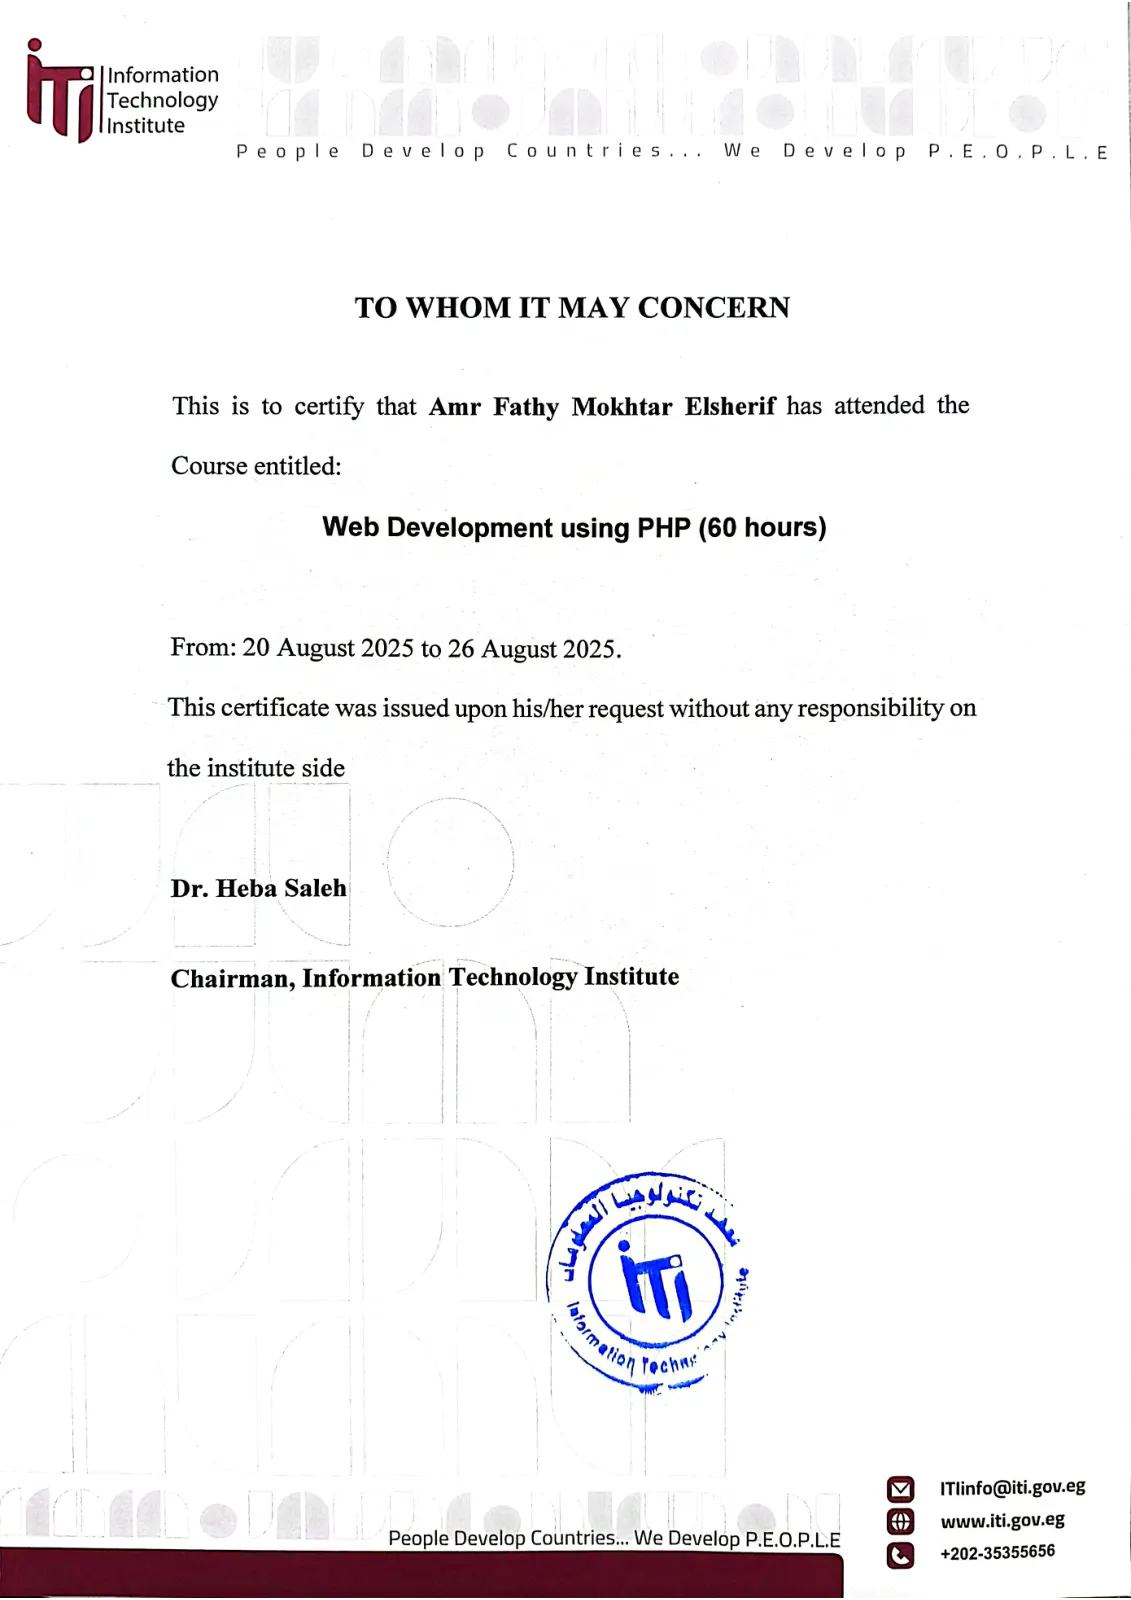
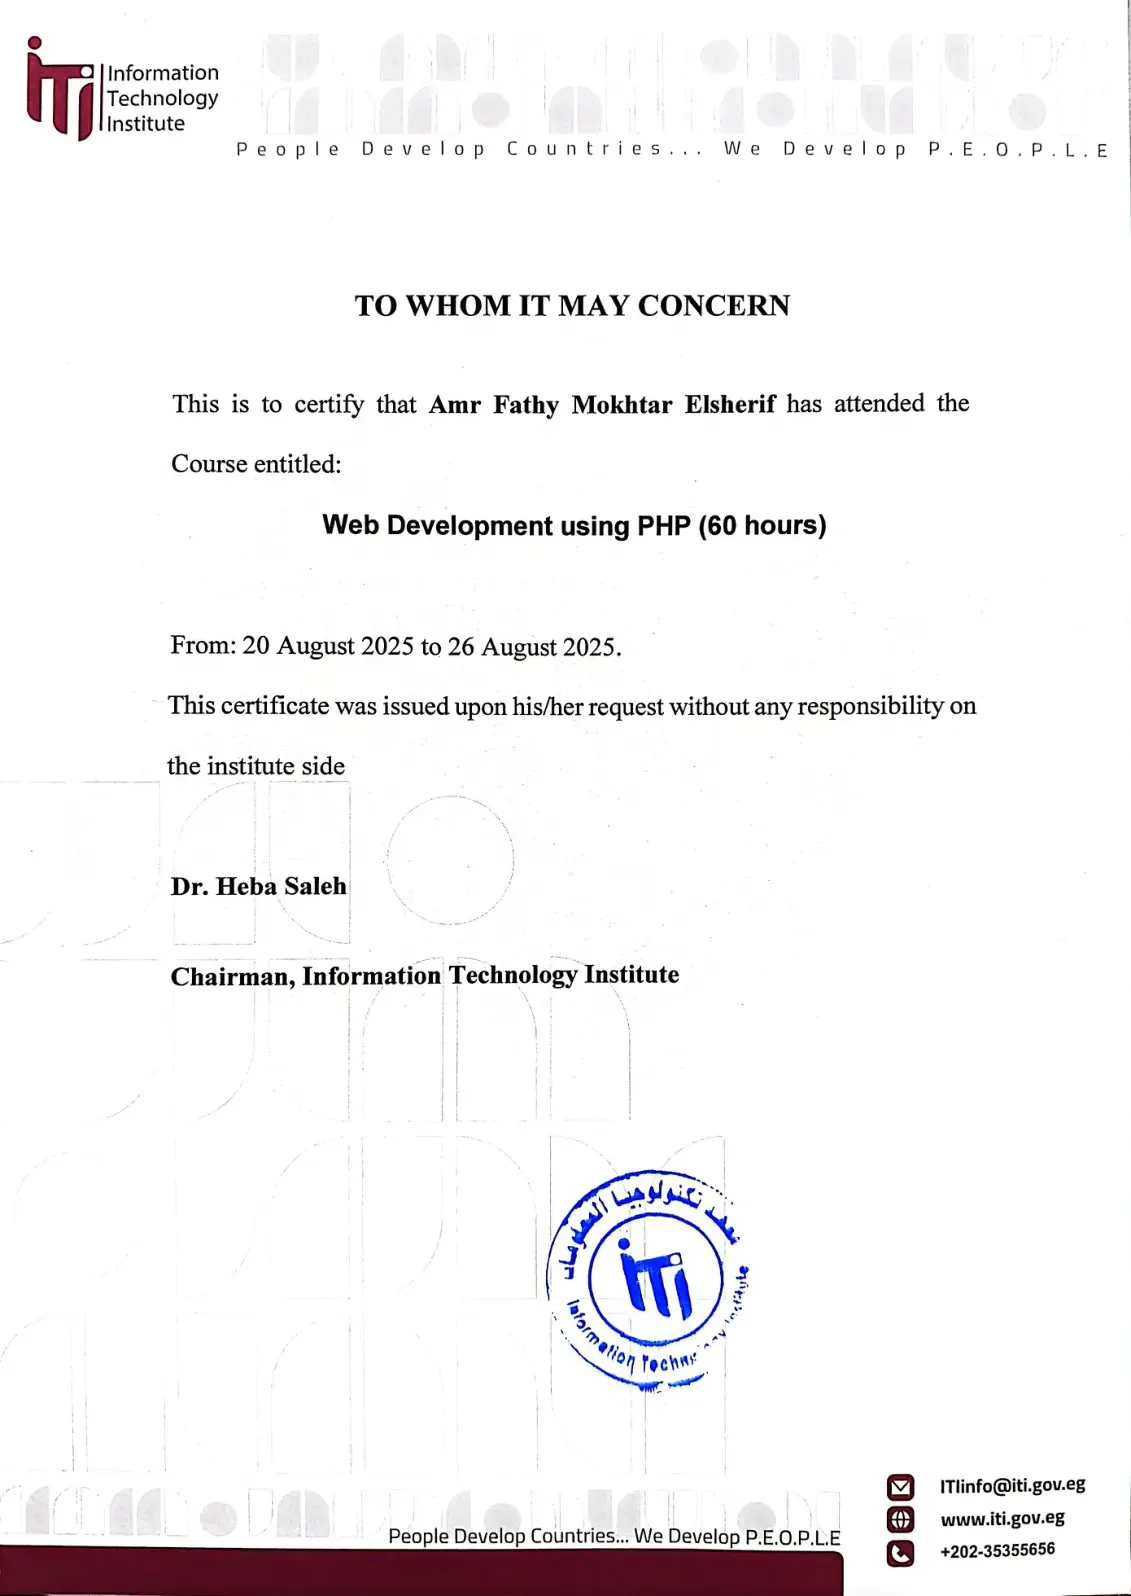
Certificates page: AWS preview frame takes the certificate's own shape (no empty bars), image fills it; thin white/grey edge strips trimmed from 6 certificate scans

diff --git a/src/pages/CertificationsPage.css b/src/pages/CertificationsPage.css
@@ -122,7 +122,7 @@
 }
 .cpg-aws-card {
   display: grid;
-  grid-template-columns: 200px 1fr;
+  grid-template-columns: 220px 1fr;
   gap: 24px;
   padding: 24px;
   border: 1px solid #1e1e1e;
@@ -147,15 +147,22 @@
   overflow: hidden;
   transition: border-color 0.2s ease;
   min-height: 44px;
+  /* frame = the certificate's own shape, centred: no empty bars above/below */
+  align-self: center;
+  aspect-ratio: 1598 / 1237;
 }
 .cpg-aws-thumb-btn:hover {
   border-color: var(--accentColor);
 }
 .cpg-aws-thumb {
   width: 100%;
-  height: auto;
+  height: 100%;
   display: block;
-  object-fit: contain;
+  object-fit: cover;
+  transition: transform 0.3s ease;
+}
+.cpg-aws-thumb-btn:hover .cpg-aws-thumb {
+  transform: scale(1.03);
 }
 
 /* body */
